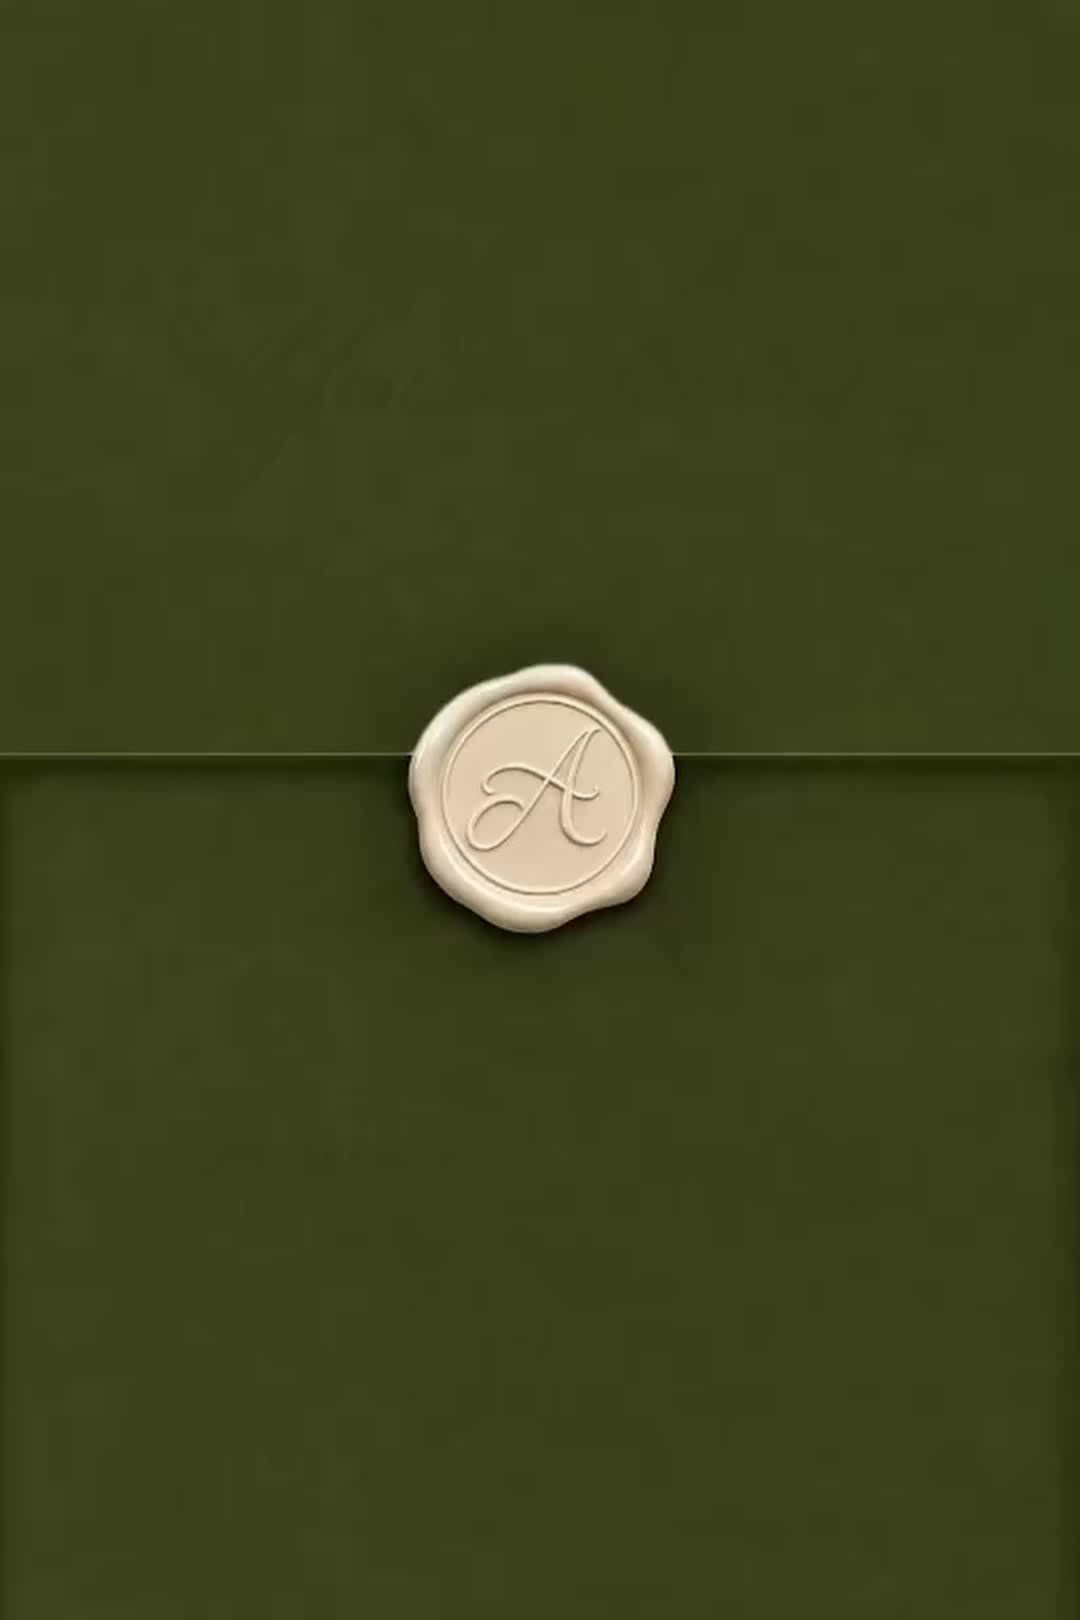
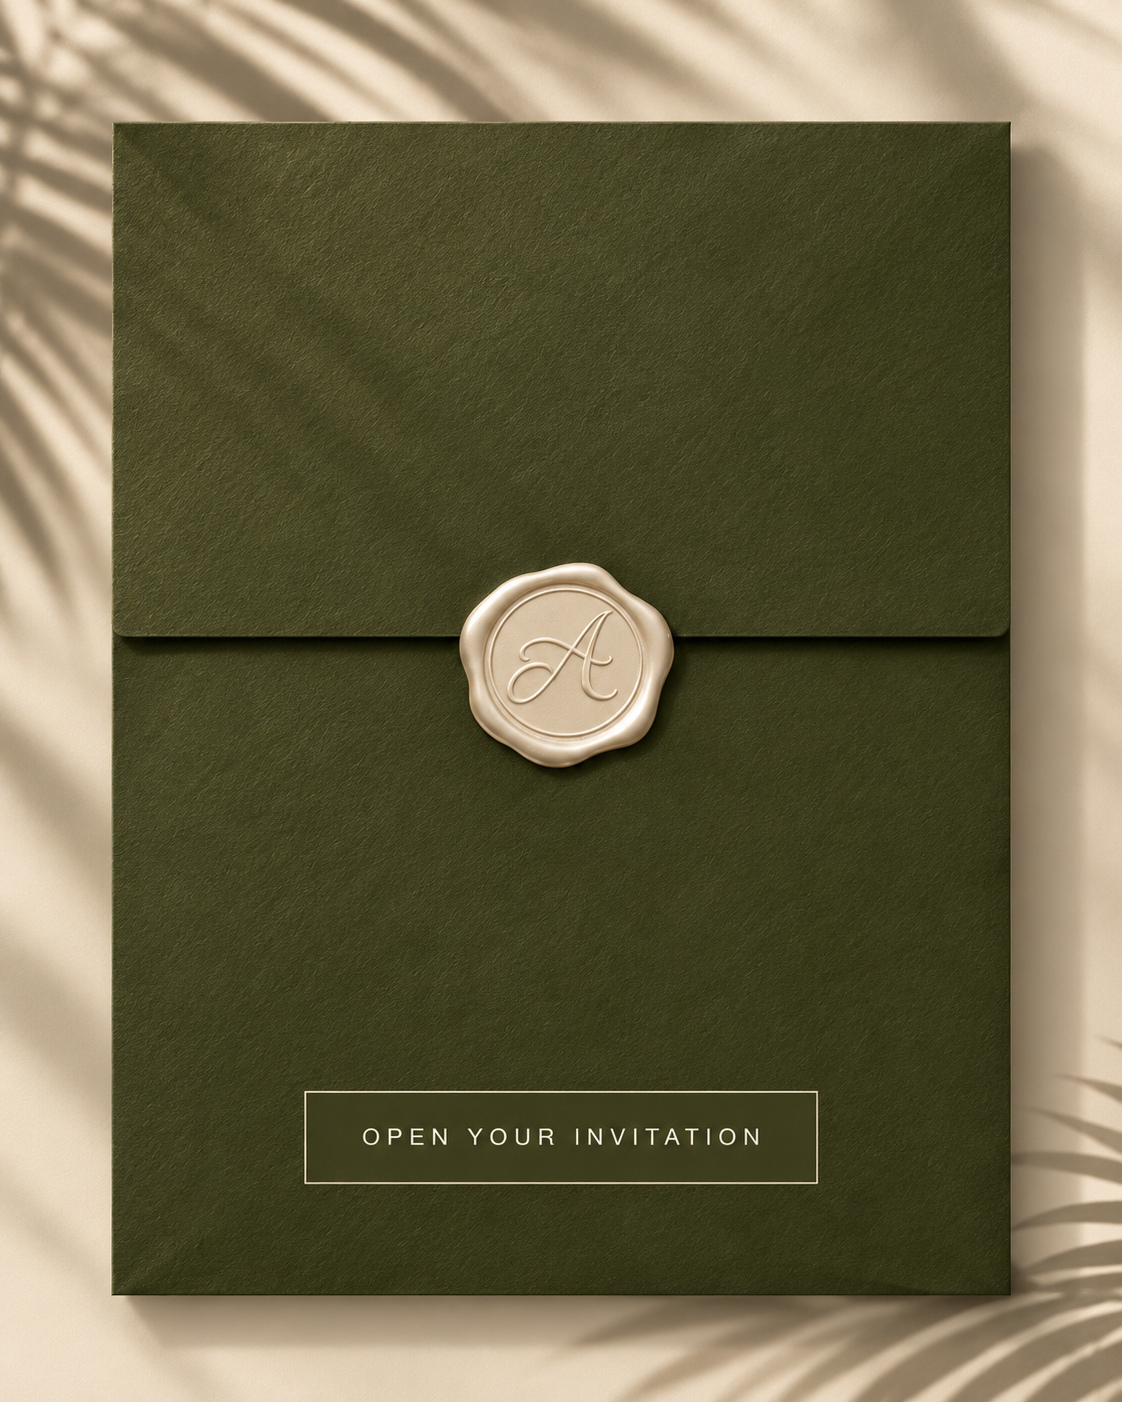
Add files via upload

diff --git a/index.html b/index.html
@@ -11,22 +11,53 @@
 html,body{margin:0;min-height:100%;background:var(--paper);color:var(--ink);font-family:Georgia,serif}
 body{min-height:100svh;display:grid;place-items:center}
 .stage{width:100%;min-height:100svh;display:flex;align-items:center;justify-content:center;position:relative;overflow:hidden;background:radial-gradient(ellipse at center,#f7f1e8 0%,#e8dfd1 100%)}
-.screen{width:min(94vw,58.67svh);aspect-ratio:2/3;height:auto;max-height:88svh;position:relative;display:flex;align-items:center;justify-content:center;overflow:hidden;background:var(--paper)}
+.screen{width:min(94vw,70.5svh);aspect-ratio:4/5;height:auto;max-height:88svh;position:relative;display:flex;align-items:center;justify-content:center;overflow:hidden;background:var(--paper);isolation:isolate}
 video,.cover,.poster{position:absolute;inset:0;width:100%;height:100%;object-fit:contain}
-.poster{object-fit:contain;background:#eee6d8}
-.start{position:absolute;z-index:3;inset:0;border:0;background:linear-gradient(transparent 50%,rgba(0,0,0,.15));display:flex;align-items:flex-end;justify-content:center;padding:0 20px 12%;cursor:pointer}
-.start span{font:11px Arial,sans-serif;letter-spacing:.25em;text-transform:uppercase;color:#fff;background:rgba(67,72,48,.82);padding:16px 24px;border:1px solid rgba(255,255,255,.55)}
+.cover{z-index:0}
+.poster{object-fit:contain;background:#eee6d8;z-index:0}
+/* Delicate moving palm shadows, visible only over the closed envelope */
+.leaf-shadows{position:absolute;inset:0;z-index:1;pointer-events:none;overflow:hidden;opacity:.56;mix-blend-mode:multiply;transition:opacity 1.2s ease}
+.leaf-shadows svg{position:absolute;width:120%;height:120%;left:-10%;top:-10%;filter:blur(2.2px);transform-origin:72% 18%;animation:leafSway 12s ease-in-out infinite alternate}
+.leaf-shadows .second{width:100%;height:100%;left:10%;top:12%;opacity:.42;transform-origin:12% 85%;animation:leafSwayBack 15s ease-in-out infinite alternate}
+@keyframes leafSway{0%{transform:translate3d(-1.2%,.3%,0) rotate(-1.2deg)}100%{transform:translate3d(1.4%,-.6%,0) rotate(1.1deg)}}
+@keyframes leafSwayBack{0%{transform:translate3d(.8%,-.5%,0) rotate(1deg)}100%{transform:translate3d(-1% ,.7%,0) rotate(-.8deg)}}
+.start{position:absolute;z-index:3;inset:0;border:0;background:transparent;display:flex;align-items:flex-end;justify-content:center;padding:0 20px 12%;cursor:pointer}
+.start span{font:11px Arial,sans-serif;letter-spacing:.25em;text-transform:uppercase;color:transparent;background:transparent;padding:16px 24px;border:1px solid transparent}
 .hidden{display:none!important}
 .actions{position:absolute;z-index:4;left:0;right:0;bottom:0;padding:22px 18px 28px;display:flex;justify-content:center;gap:10px;flex-wrap:wrap;background:linear-gradient(transparent,rgba(238,230,216,.97) 25%)}
 .actions a,.actions button{font:10px Arial,sans-serif;letter-spacing:.16em;text-transform:uppercase;text-decoration:none;padding:15px 17px;border:1px solid var(--olive);background:var(--olive);color:#fff;cursor:pointer}
 .actions .secondary{background:transparent;color:var(--olive)}
 .replay{position:absolute;z-index:5;top:18px;right:18px;border:1px solid rgba(89,96,68,.5);background:rgba(238,230,216,.86);color:var(--olive);padding:10px 13px;font:9px Arial,sans-serif;letter-spacing:.15em;text-transform:uppercase}
+.screen.is-opening .leaf-shadows{opacity:0}
+@media(prefers-reduced-motion:reduce){.leaf-shadows svg{animation:none}}
 </style>
 </head>
 <body>
 <main class="stage">
-  <section class="screen" aria-label="ALIGNED Summer Edition invitation">
+  <section class="screen" id="screen" aria-label="ALIGNED Summer Edition invitation">
     <img class="cover" src="aligned-cover.jpg" alt="Closed olive green ALIGNED envelope">
+    <div class="leaf-shadows" aria-hidden="true">
+      <svg viewBox="0 0 700 900" preserveAspectRatio="none">
+        <g fill="#20251a" opacity=".32">
+          <path d="M690 0 C560 95 510 190 390 310 C485 235 570 190 700 155Z"/>
+          <path d="M650 18 C560 145 535 245 470 390 C545 285 610 205 690 160Z"/>
+          <path d="M700 120 C575 205 530 315 445 455 C560 350 635 270 700 245Z"/>
+          <path d="M700 250 C580 310 510 420 405 555 C535 465 630 385 700 370Z"/>
+          <path d="M700 395 C585 440 500 535 385 665 C520 585 625 515 700 505Z"/>
+          <path d="M700 545 C590 575 495 660 380 790 C515 720 625 650 700 645Z"/>
+        </g>
+        <g stroke="#20251a" stroke-width="7" stroke-linecap="round" opacity=".22" fill="none">
+          <path d="M700 0 C565 145 500 305 385 505"/><path d="M700 140 C575 270 510 420 400 610"/><path d="M700 330 C570 440 500 575 390 745"/>
+        </g>
+      </svg>
+      <svg class="second" viewBox="0 0 700 900" preserveAspectRatio="none">
+        <g fill="#20251a" opacity=".23">
+          <path d="M0 900 C110 760 155 635 260 485 C205 620 130 780 0 900Z"/>
+          <path d="M35 900 C175 770 220 645 335 510 C260 655 190 800 35 900Z"/>
+          <path d="M100 900 C240 790 300 675 410 555 C330 690 255 820 100 900Z"/>
+        </g>
+      </svg>
+    </div>
     <img class="poster hidden" src="aligned-invitation.jpg" alt="ALIGNED Summer Edition invitation">
     <video id="opening" class="hidden" playsinline preload="auto">
       <source src="aligned-opening.mp4" type="video/mp4">
@@ -46,38 +77,34 @@ const poster=document.querySelector('.poster');
 const cover=document.querySelector('.cover');
 const actions=document.getElementById('actions');
 const replay=document.getElementById('replay');
-start.addEventListener('click',async()=>{
+const screen=document.getElementById('screen');
+function playOpening(){
+  actions.classList.add('hidden');
+  replay.classList.add('hidden');
   start.classList.add('hidden');
   cover.classList.add('hidden');
   poster.classList.add('hidden');
+  screen.classList.add('is-opening');
   video.classList.remove('hidden');
   video.currentTime=0;
   video.muted=false;
   video.volume=1;
-  try{await video.play();}catch(e){
+  const attempt=video.play();
+  if(attempt && typeof attempt.catch==='function') attempt.catch(()=>{
     video.controls=true;
     video.muted=false;
     start.classList.remove('hidden');
     start.querySelector('span').textContent='Tap to play with sound';
-  }
-});
+  });
+}
+start.addEventListener('click',playOpening);
 video.addEventListener('ended',()=>{
   video.classList.add('hidden');
   poster.classList.remove('hidden');
   actions.classList.remove('hidden');
   replay.classList.remove('hidden');
 });
-replay.addEventListener('click',()=>{
-  actions.classList.add('hidden');
-  replay.classList.add('hidden');
-  cover.classList.add('hidden');
-  poster.classList.add('hidden');
-  video.classList.remove('hidden');
-  video.currentTime=0;
-  video.muted=false;
-  video.volume=1;
-  video.play();
-});
+replay.addEventListener('click',playOpening);
 </script>
 </body>
 </html>
